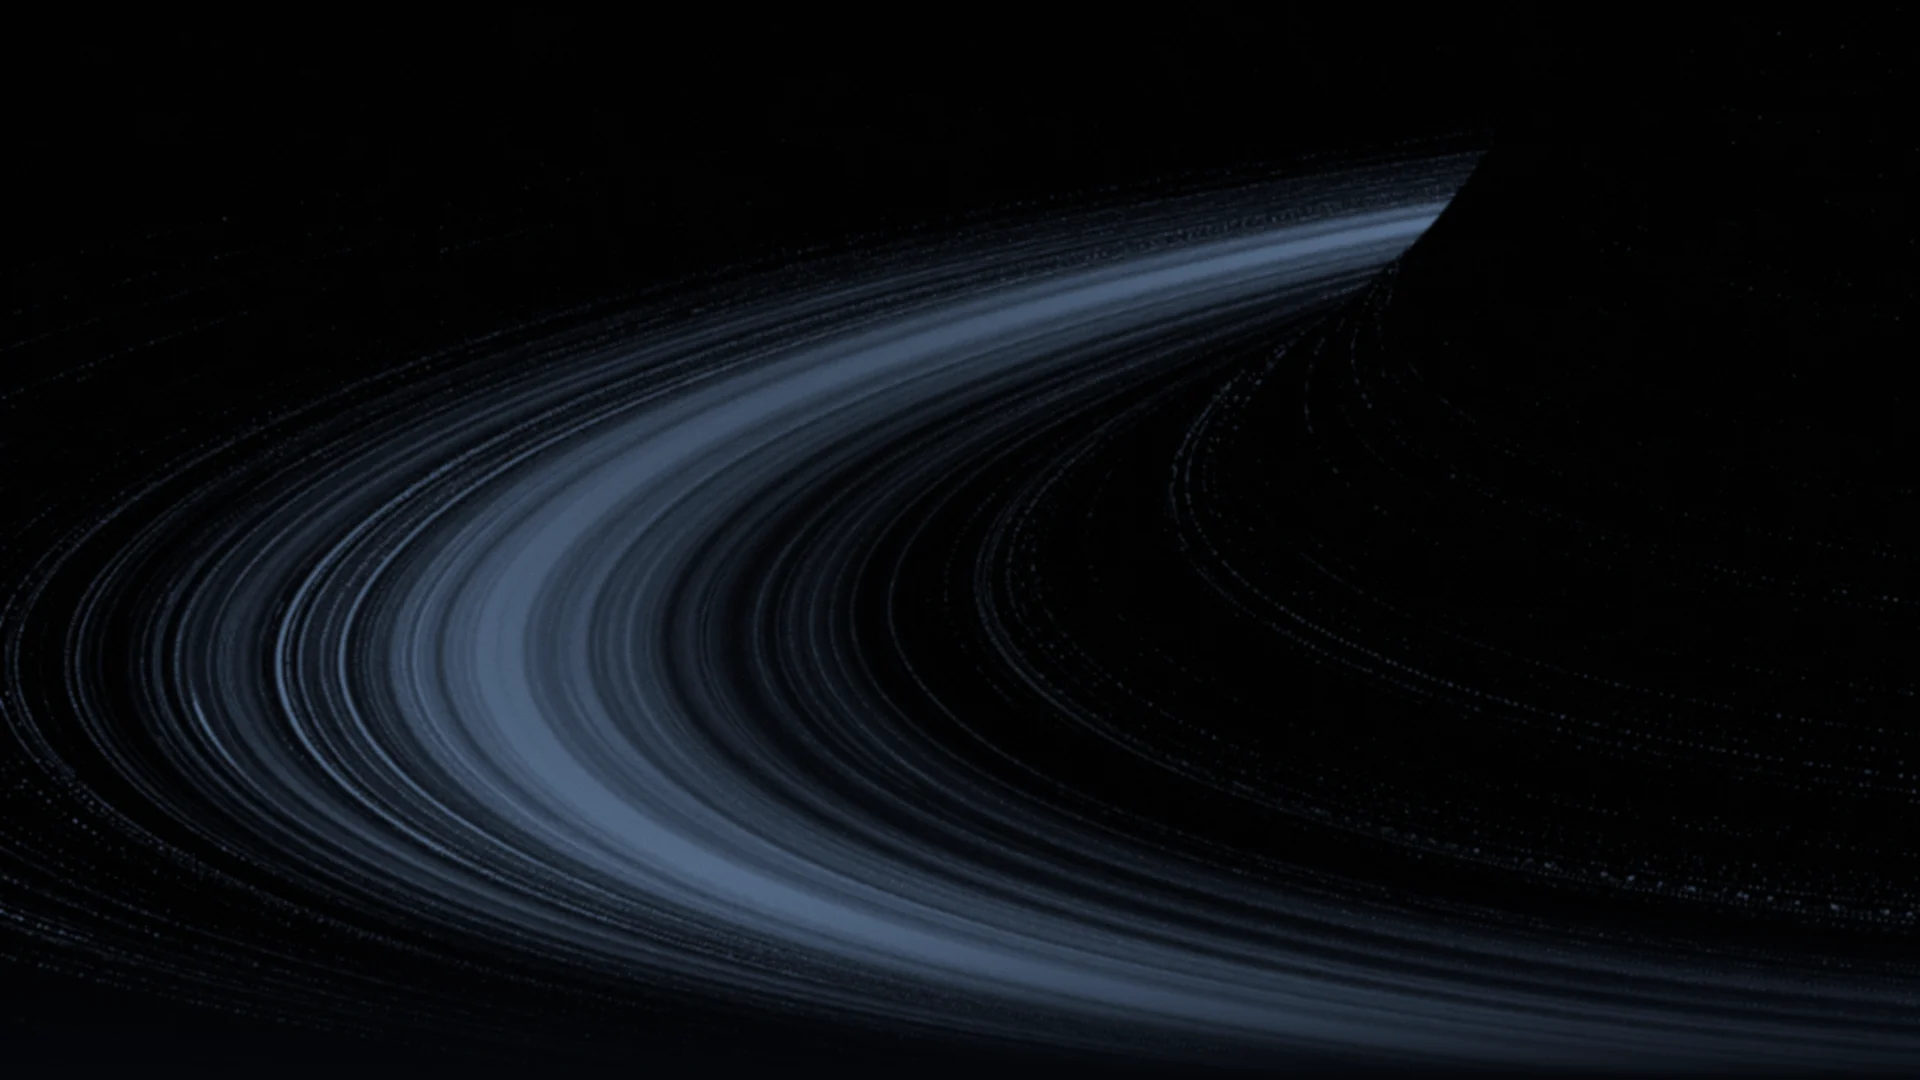
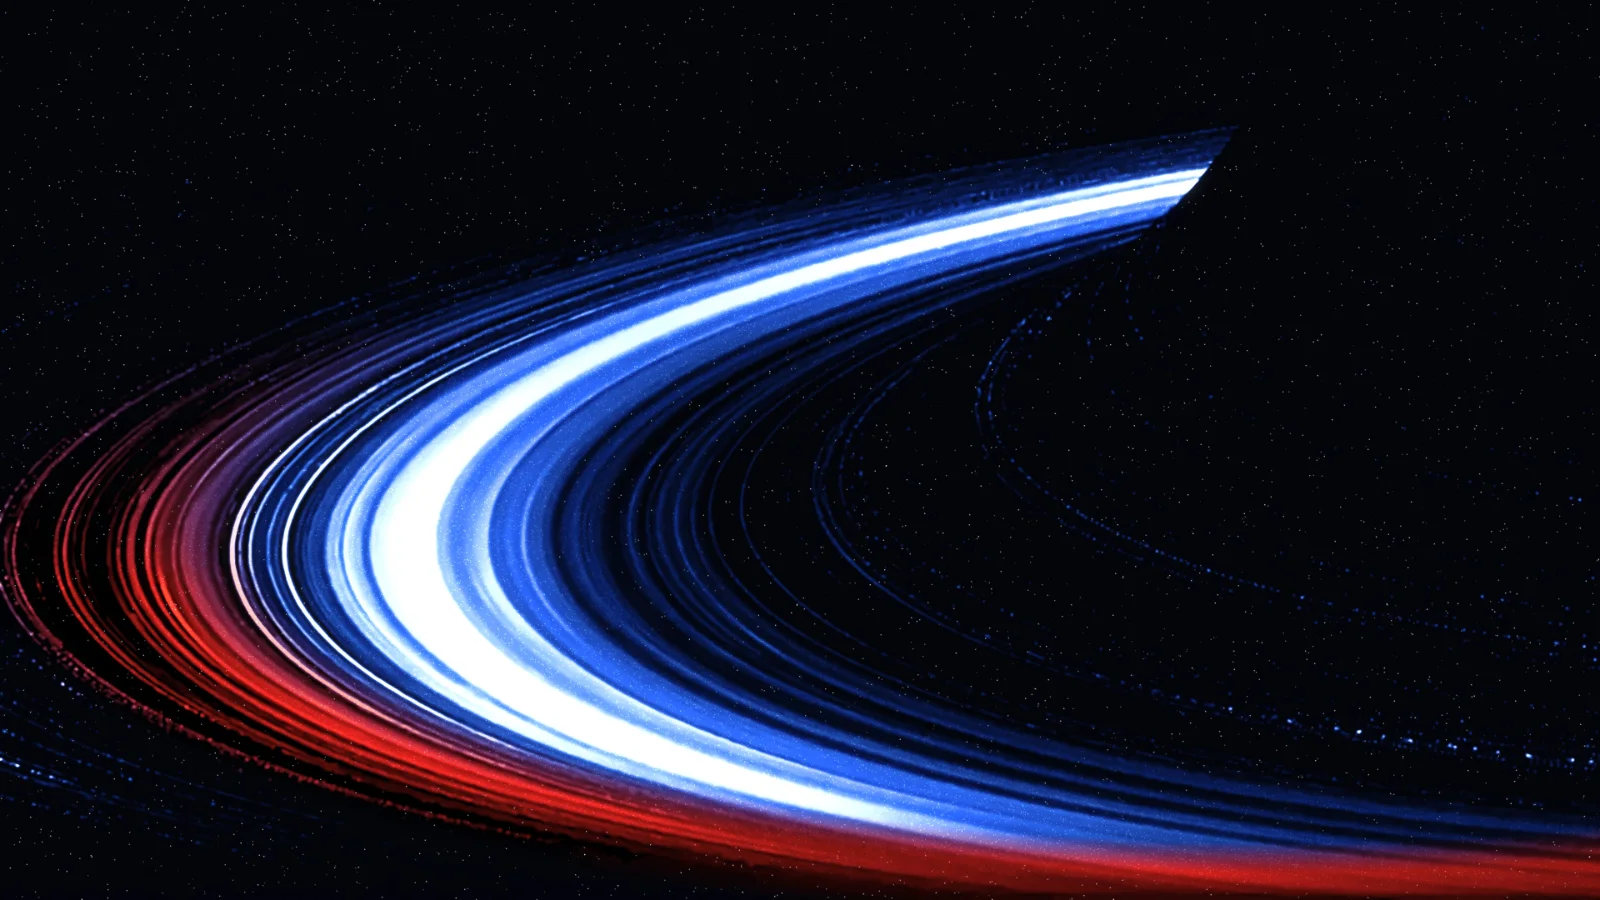
Swap in the new background and scrim the type column
The new image is served byte-for-byte, no re-encode and no transform, at its native 1600x900. A left-side scrim keeps the headline and subhead on dark ground where the arc passes behind them, while leaving the arc bright on the right.

diff --git a/app/public/index.html b/app/public/index.html
@@ -38,8 +38,10 @@
   .backdrop::after {
     content: ""; position: absolute; inset: 0;
     background:
-      radial-gradient(135% 85% at 50% 12%, rgba(5,7,11,0.10) 0%, rgba(5,7,11,0.42) 52%, rgba(5,7,11,0.86) 100%),
-      linear-gradient(180deg, rgba(5,7,11,0.42) 0%, rgba(5,7,11,0.16) 34%, rgba(5,7,11,0.78) 82%, var(--void) 100%);
+      /* left scrim: the type column stays dark, the arc stays bright on the right */
+      linear-gradient(90deg, rgba(5,7,11,0.90) 0%, rgba(5,7,11,0.62) 34%, rgba(5,7,11,0.18) 66%, rgba(5,7,11,0) 100%),
+      linear-gradient(180deg, rgba(5,7,11,0.50) 0%, rgba(5,7,11,0.18) 30%, rgba(5,7,11,0.80) 80%, var(--void) 100%),
+      radial-gradient(130% 90% at 64% 42%, rgba(5,7,11,0) 0%, rgba(5,7,11,0.30) 62%, rgba(5,7,11,0.72) 100%);
   }
 
   .shell { position: relative; z-index: 1; max-width: 1060px; margin: 0 auto; padding: 0 28px; }
@@ -78,7 +80,7 @@
     margin: 0 0 22px;
     max-width: 17ch;
   }
-  h1 em { font-style: normal; color: var(--dim); }
+  h1 em { font-style: normal; color: #b7c1d0; }
   .sub {
     color: #a7b0bf; margin: 0; max-width: 56ch;
     font-size: clamp(15px, 1.4vw, 17.5px); line-height: 1.6;
@@ -194,10 +196,7 @@
 </head>
 <body>
 <div class="backdrop">
-  <img src="/bg.webp?v=4"
-       srcset="/bg.webp?v=4 1920w, /bg@2x.webp?v=4 3840w"
-       sizes="100vw"
-       alt="" aria-hidden="true" decoding="async" fetchpriority="high" />
+  <img src="/bg.webp?v=6" alt="" aria-hidden="true" decoding="async" fetchpriority="high" />
 </div>
 
 <div class="shell">
